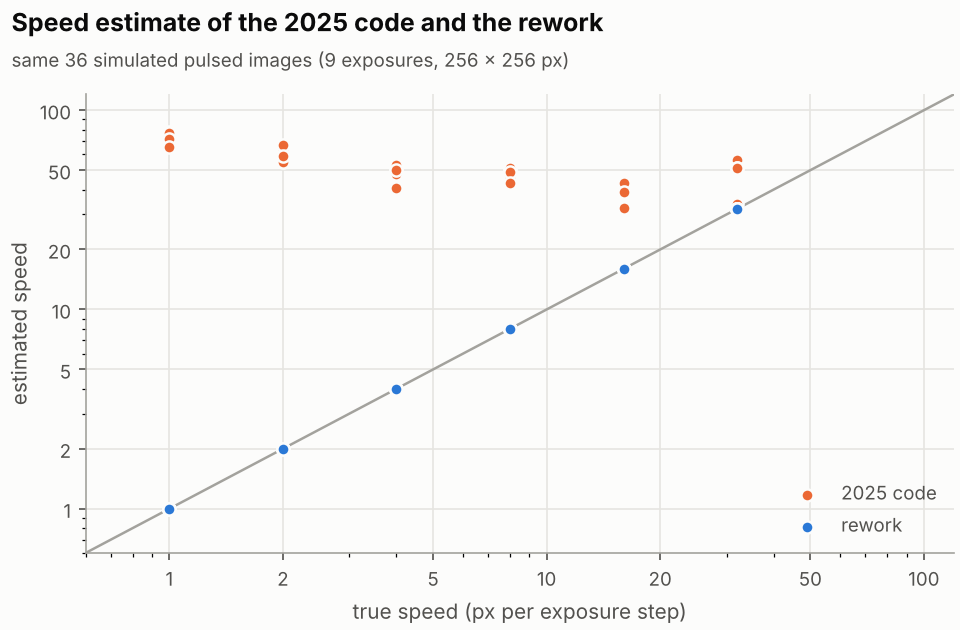
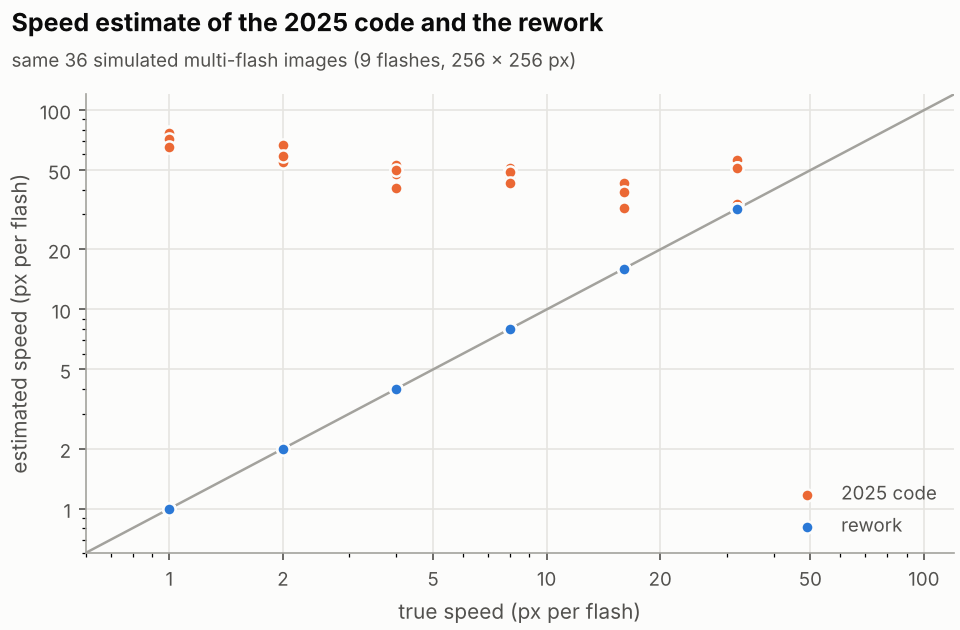
Figures: consistent terms (flashes, px per flash, 2025 recordings)

Changed region(s): [[0.0, 0.2714, 0.0312, 0.754], [0.1875, 0.0603, 0.5938, 0.1206], [0.375, 0.9651, 0.7188, 0.9952]]

diff --git a/experiments/accuracy.py b/experiments/accuracy.py
@@ -39,9 +39,9 @@ def run(pool, quick):
 
 def plot(rows):
     fig, (ax1, ax2) = common.figure(2, 9.6)
-    series = [("random", 4, BLUE, "random texture, 9 exposures"),
-              ("surface", 4, ORANGE, "camera texture, 9 exposures"),
-              ("random", 20, AQUA, "random texture, 41 exposures")]
+    series = [("random", 4, BLUE, "random texture, 9 flashes"),
+              ("surface", 4, ORANGE, "camera texture, 9 flashes"),
+              ("random", 20, AQUA, "random texture, 41 flashes")]
     for texture, L, col, label in series:
         sel = [r for r in rows if r["texture"] == texture and r["L"] == L]
         sp = sorted(s for s in {r["speed"] for r in sel}
@@ -55,12 +55,12 @@ def plot(rows):
         ax.set_yscale("log")
         common.plain_log_ticks(ax, "x")
         common.plain_log_ticks(ax, "y")
-        common.style(ax, "true speed (px per exposure step)", ylab)
+        common.style(ax, "true speed (px per flash)", ylab)
     ax1.legend(frameon=False, fontsize=9, labelcolor=INK2, loc="upper right")
     ndir = len({r["angle"] for r in rows})
     common.title(fig, "Accuracy over the speed range",
                  f"256 x 256 px, no noise, worst case over {ndir} directions; slower motion than shown "
-                 f"is outside the search range and comes out 'not valid'")
+                 f"is outside the measurable range and comes out 'not valid'")
     common.save(fig, "accuracy.png")
 
 

diff --git a/experiments/model_violations.py b/experiments/model_violations.py
@@ -777,7 +777,7 @@ def plot(rows):
     per = len([r for r in rows if r["factor"] == "edge" and r["level"] == 0 and r["variant"] == "default"])
     grid_title(fig, "When the image breaks the model: correct and wrong valid estimates",
                f"independent forward model, one violation at a time, {per} images per level (camera and random "
-               f"texture), 0.5 to 30 px per step, 9 flashes, 256 px; correct = within 2 deg and 5 %")
+               f"texture), 0.5 to 30 px per flash, 9 flashes, 256 px; correct = within 2 deg and 5 %")
     for ax in axes[:len(FACTORS)]:
         ax.axhline(0, color=GRID, lw=0.8, zorder=0)
     common.save(fig, "violations.png")

diff --git a/experiments/history/before_after.py b/experiments/history/before_after.py
@@ -61,10 +61,10 @@ def plot(rows):
     ax.set_ylim(lim)
     common.plain_log_ticks(ax, "x")
     common.plain_log_ticks(ax, "y")
-    common.style(ax, "true speed (px per exposure step)", "estimated speed")
+    common.style(ax, "true speed (px per flash)", "estimated speed (px per flash)")
     ax.legend(frameon=False, fontsize=9, labelcolor=INK2, loc="lower right")
     common.title(fig, "Speed estimate of the 2025 code and the rework",
-                 f"same {len(rows)} simulated pulsed images (9 exposures, 256 x 256 px)")
+                 f"same {len(rows)} simulated multi-flash images (9 flashes, 256 x 256 px)")
     common.save(fig, "before_after.png")
 
 

diff --git a/experiments/baselines.py b/experiments/baselines.py
@@ -450,7 +450,7 @@ def plot(rows):
     axes[0].legend(frameon=False, fontsize=8.5, labelcolor=INK2, loc="lower left")
     per = len([r for r in rows if r["method"] == "fftvel" and r["texture"] == "random" and r["noise"] == 0])
     common.title(fig, "fftvel against simple single-image baselines",
-                 f"images of the noise study, {per} per texture and noise level, 1 to 32 px per step; "
+                 f"images of the noise study, {per} per texture and noise level, 1 to 32 px per flash; "
                  f"correct = within 2 deg and 5 %; validity not applied")
     common.save(fig, "baselines.png")
 

diff --git a/experiments/noise.py b/experiments/noise.py
@@ -75,7 +75,7 @@ def plot(rows, srows):
     axes[0].legend(frameon=False, fontsize=9, labelcolor=INK2, loc="center left")
     common.title(fig, "Sensor noise",
                  f"in simulation: {_join(per_level)} images per noise level and texture ({common.N} \u00d7 {common.N} px, "
-                 f"{_join(flashes)} flashes, 1 to 32 px per step); correct = within 2 deg and 5 %")
+                 f"{_join(flashes)} flashes, 1 to 32 px per flash); correct = within 2 deg and 5 %")
     common.save(fig, "noise.png")
 
     fig, (ax,) = common.figure(1, 9.6)

diff --git a/experiments/recordings_2025.py b/experiments/recordings_2025.py
@@ -54,7 +54,7 @@ def plot(rows):
     common.style(ax, "frame pair", "displacement between frames (px)")
     ax.set_ylim(bottom=0)
     ax.legend(frameon=False, fontsize=9, labelcolor=INK2, loc="upper left")
-    common.title(fig, "Original recordings: steps are not equal",
+    common.title(fig, "2025 recordings: steps are not equal",
                  "phase correlation of consecutive frames, central 1024 x 1024 px")
     common.save(fig, "recordings.png")
 
